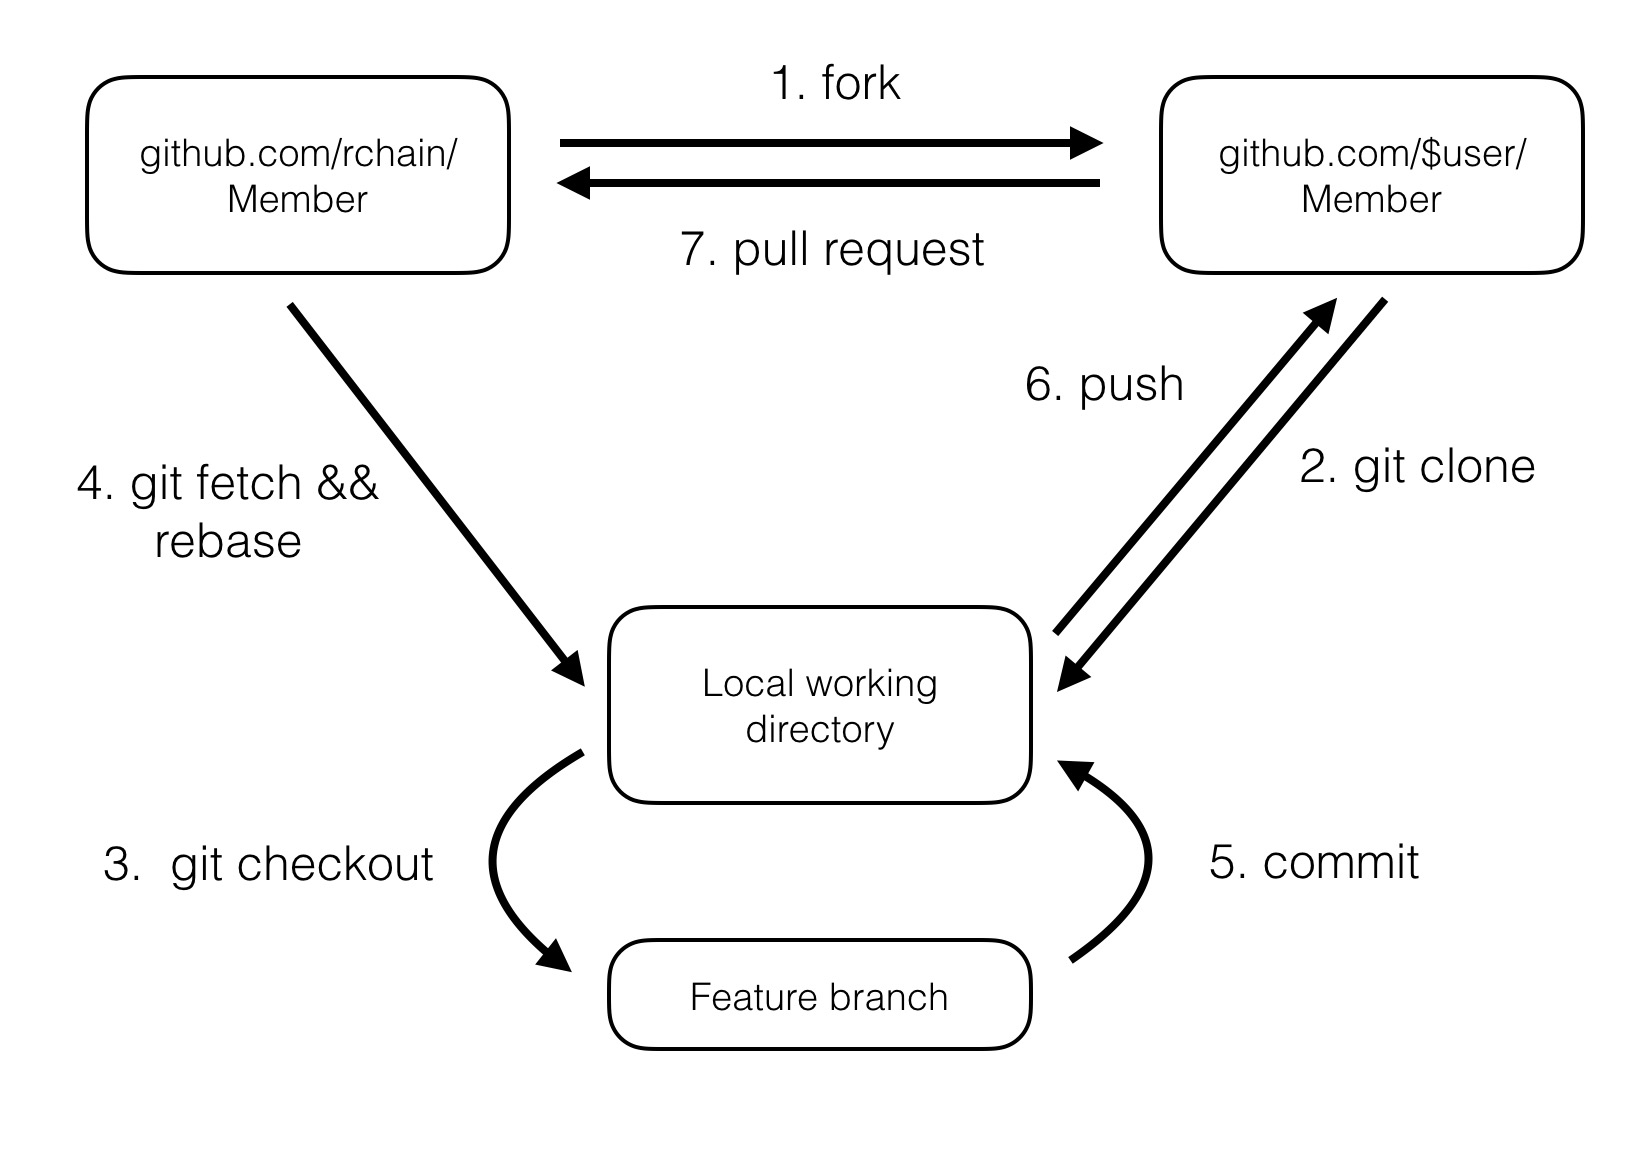
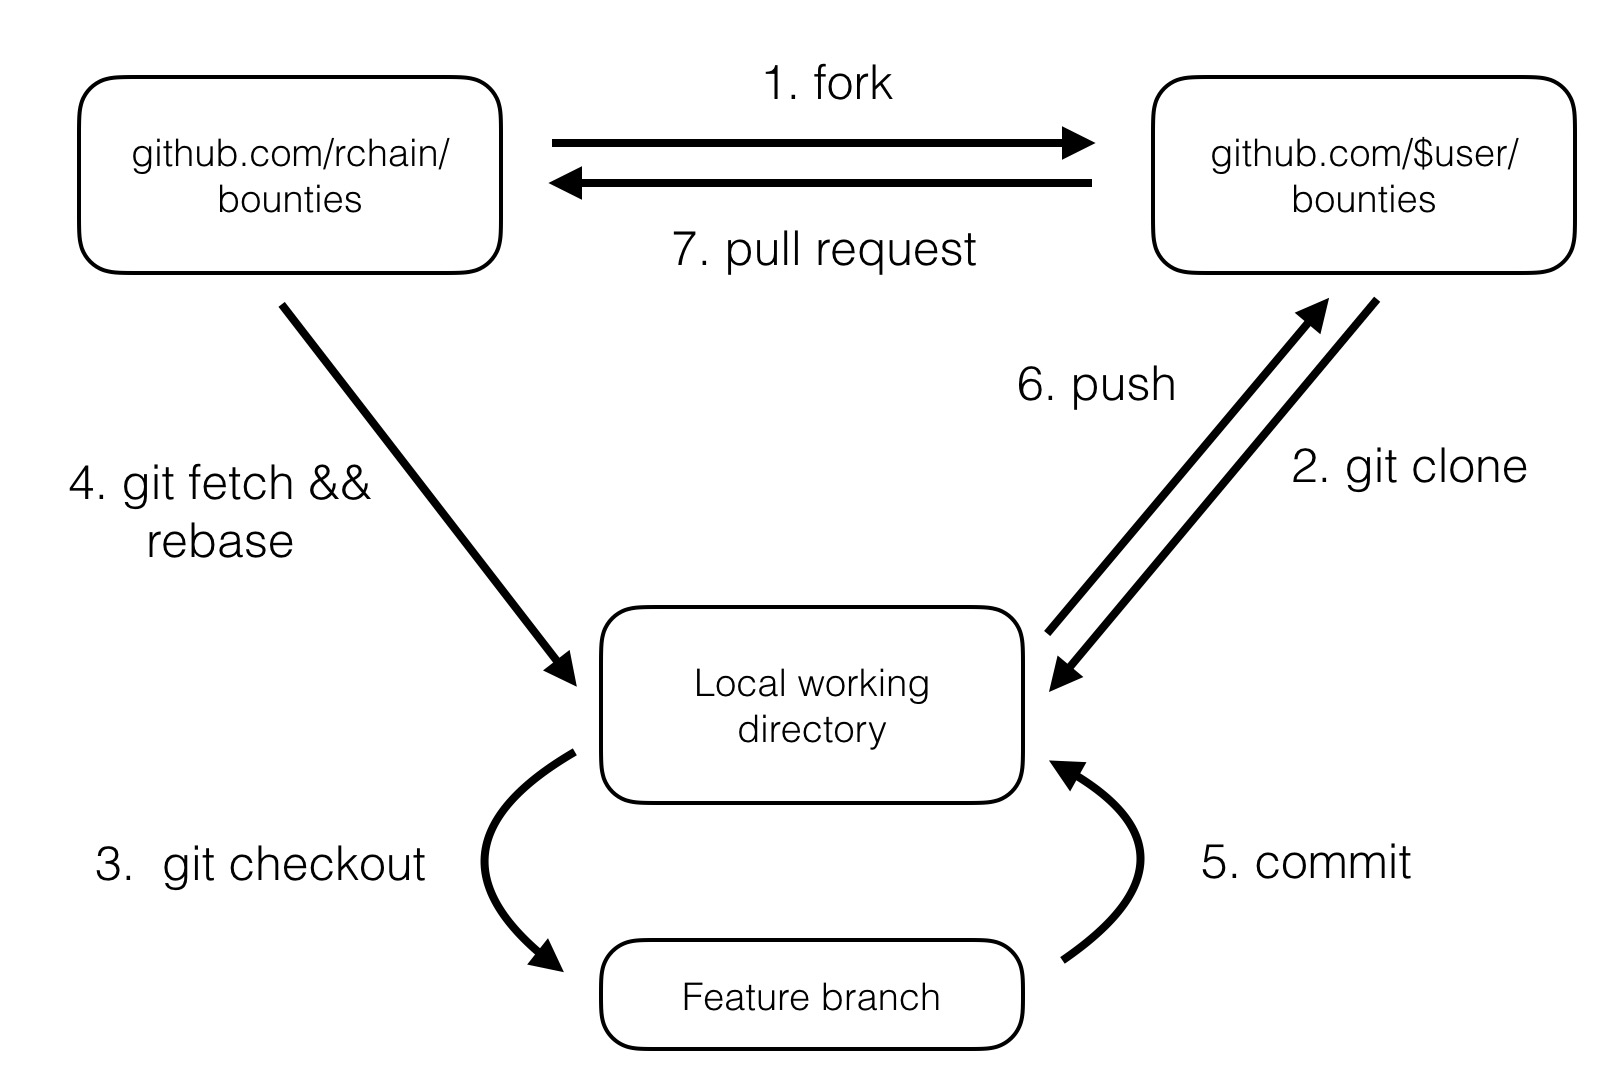
Add git workflow to chinese version and update project name

diff --git a/CONTRIBUTING.md b/CONTRIBUTING.md
@@ -32,26 +32,26 @@ Through [Github/bounties](https://github.com/rchain/bounties/) issues are create
 
 - It's not mandatory but it really helps to become a RChain Member and get verified on Discord. This requires a $20 membership fee and KYC. See [Becoming a Member](#becoming-a-member) below.
   1. [ ] <img src="https://user-images.githubusercontent.com/1913335/32598353-e489f158-c539-11e7-9656-4bcbb55718d2.png" alt="registration" width="200" />
-  <!-- 2. [ ] This is the #bounties channel in Discord:
-  ![image](https://user-images.githubusercontent.com/1913335/32598502-3f0ddc98-c53a-11e7-85e9-f95fc799dede.png) -->
+    <!-- 2. [ ] This is the #bounties channel in Discord:
+    ![image](https://user-images.githubusercontent.com/1913335/32598502-3f0ddc98-c53a-11e7-85e9-f95fc799dede.png) -->
 
 #### Decentralized Budget Allocation
 - Budgets are allocated to work items by at least three Members. The average of three suggestions defines the budget.
 - Ops (@lapin7, HJ) explains it in the video [RChain, Decentralized budgeting and spending](https://www.youtube.com/watch?v=m6xiTWbEdpA)
 - Members suggest a budget to resolve the issue.
 - Go to the spreadsheet [Pub Member Budget Allocation-Spending](https://docs.google.com/spreadsheets/d/1uxuxx8YN17KCIWcH1cUoGuSm2hAnIya2iAc6wxoaq1o/edit#gid=634479823) TAB "Budget 201711"
-![image](https://user-images.githubusercontent.com/1913335/32597438-01a23d84-c537-11e7-916e-c9f12df80480.png)
+  ![image](https://user-images.githubusercontent.com/1913335/32597438-01a23d84-c537-11e7-916e-c9f12df80480.png)
 - Find an issue that you want to allocate a budget to, like #115 "Community Co-Operators"
 - Type your Github-name in the yellow column, for example AR66 gets lapin7
 - Type your suggested budget, like $5000.00. The current budget becomes then $5000.00 (in K66). It's added to the budget of the previous month.
-![image](https://user-images.githubusercontent.com/1913335/32597751-ed21061e-c537-11e7-9a0b-c9cccc48bc86.png)
+  ![image](https://user-images.githubusercontent.com/1913335/32597751-ed21061e-c537-11e7-9a0b-c9cccc48bc86.png)
 - The Operation manager ([ops@rchain.coop](ops@rchain.coop)) can also add comments with email assignments to the cells of the issue in this Gsheet in order to stimulate setting budgets.
 
 #### Decentralized Reward Allocation
 - RHOC are distributed monthly based on invoices.
 - During the month each collaborator decides how the budget in RHOC is distributed over the collaborators as a reward for the participation. The average of three reward suggestions sets the personal reward for each collaborator.
 - Go to spreadsheet [Pub Member Budget Allocation-Spending](https://docs.google.com/spreadsheets/d/1uxuxx8YN17KCIWcH1cUoGuSm2hAnIya2iAc6wxoaq1o/edit#gid=634479823) TAB "Rewards 201711"
-![image](https://user-images.githubusercontent.com/1913335/32599161-f91d53f6-c53b-11e7-9ee8-8b31733b98fb.png)
+  ![image](https://user-images.githubusercontent.com/1913335/32599161-f91d53f6-c53b-11e7-9ee8-8b31733b98fb.png)
 - In column Q and R you see respectively the percentage distribution and the github name of the member, who gave the score according to his/her insight about the work being done by him/her self and the other ones who have done work on the issue.
 - In column M you can type your github name. Your name appears then in column Q for example.
 - In column R you can set then the percentages for yourself and the other collaborators.
@@ -86,20 +86,20 @@ In this chapter is a brief introduction to the basic use of version management t
 
 **Fork**
 
-visit https://github.com/rchain/Member, click `fork` button to fork the project to your own repository.
+visit[https://github.com/rchain/bounties](https://github.com/rchain/bounties), click `fork` button to fork the project to your own repository.
 
 **Clone**
 
 First create a working directory of the rchain project locally `mkdir rchain`, and then create your clone:
 
-`cd rchain && git clone https://github.com/rchain/Members.git`
+`cd rchain && git clone https://github.com/rchain/bounties.git`
 
 **Fetch && rebase**
 
 Get your local master up to date:
 
 ```
-cd  rchain/Member
+cd  rchain/bounties
 git fetch origin
 git checkout master
 git rebase origin/master
@@ -134,7 +134,7 @@ git push ${your_remote_name} myfeature
 
 **create pull request**
 
-1. Visit your fork at <https://github.com/$user/Members>
+1. Visit your fork at <https://github.com/$user/bounties>
 2. Click the `Compare & Pull Request` button next to your `myfeature` branch.
 
 **Reference**
@@ -151,7 +151,7 @@ By joining the Cooperative you will participate in the lively conversation of th
 - You will receive an invite link to the RChain Discord.
 - Create a [Discord](https://discordapp.com/) account if you don't have one.
   - On Discord, you can send a message to the @verify bot:
-  ```/verify```
+    ```/verify```
   - The bot responds by querying for the code that was emailed.
   - On success, a 'verifier' will contact you (depending on the time of day this might not be immediate).
   - After passing the verification, your role will be updated to Member.

diff --git a/CONTRIBUTING/CONTRIBUTING_CN.md b/CONTRIBUTING/CONTRIBUTING_CN.md
@@ -99,6 +99,71 @@
 
 以月为单位，第一个月是2017年8月。Ops（HJ或lapin7）在8月30日提交了[RChain社区汇报40(24:06)](https://www.youtube.com/watch?v=7Li4g4qDF6M&t=1486s)。 在其中可以查到有关[预算和奖励](https://docs.google.com/spreadsheets/d/1uxuxx8YN17KCIWcH1cUoGuSm2hAnIya2iAc6wxoaq1o/edit#gid=1751357908)的信息。
 
+#### Git工作流
+
+在本章中将会对版本管理工具git的基本用法作一个简要的阐述，所有想要为rchain项目提交贡献的贡献者都必须遵循git工作流。
+
+![](../images/workflow.jpeg)
+
+**Fork**
+
+访问[项目链接](https://github.com/rchain/bounties)，点击页面上右方的`fork`按钮，将项目复制到用户个人目录下。
+
+**Clone**
+
+首先通过`mkdir rchain`命令在本地建一个工作目录rchain，然后将项目从远端的git仓库拷贝到本地:
+
+```Shell
+cd rchain && git clone https://github.com/rchain/bounties.git
+```
+
+**Add && Commit**
+
+保证你本地项目一直处于最新状态：
+
+```Shell
+cd  rchain/bounties
+git fetch origin
+git checkout master
+git rebase origin/master
+```
+
+**Branch**
+
+从主分支创建一个新分支用于修改或者开发：
+
+```Shell
+git checkout -b myfeature
+```
+
+然后在`myfeature`分支的基础上进行内容的改动。
+
+**Add && Commit**
+
+加入所有修改过的文件并做提交：
+
+```Shell
+git add xxx.file
+git commit -m "my commit message"
+```
+
+**Push**
+
+当本地的工作已经完成（或者只是将本地的工作内容做一个备份），将你本地的工作推送到`github.com`个人用户的仓库中：
+
+```Shell
+git push ${your_remote_name} myfeature
+```
+
+**Create pull request**
+
+1. 访问`https://github.com/$user/bounties`；
+2. 点击在你`myfeature分支`旁的`Compare & Pull Request`按钮；
+
+**其他**
+
+若需要进一步地了解git的使用方法，请查阅[以下资料](https://rchain.atlassian.net/wiki/spaces/DOC/pages/44007462/Github+Fork-n-Beans+Workflow)
+
 ## 如何成为一个RChain的成员
 
 通过加入RChain组织，您就能够积极参与RChain社区的建设。 RChain成员可以通过Discord聊天组与开发人员直接进行沟通交流，以及共同制定有关社区管理的决定。
